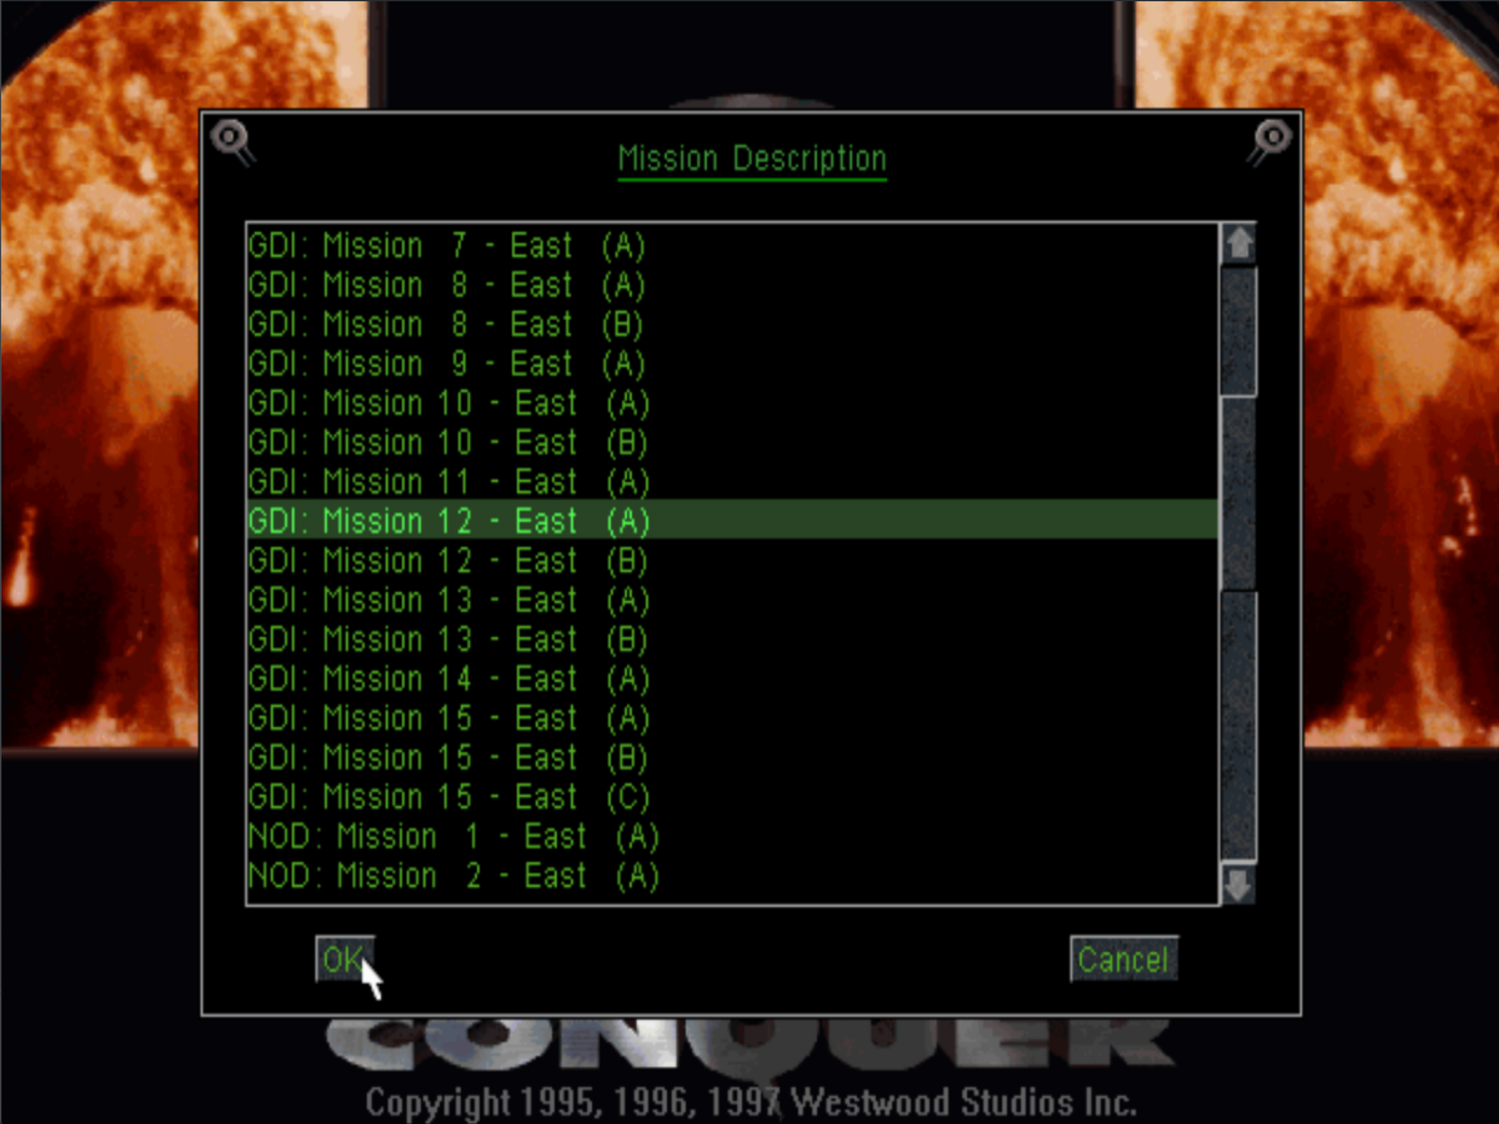
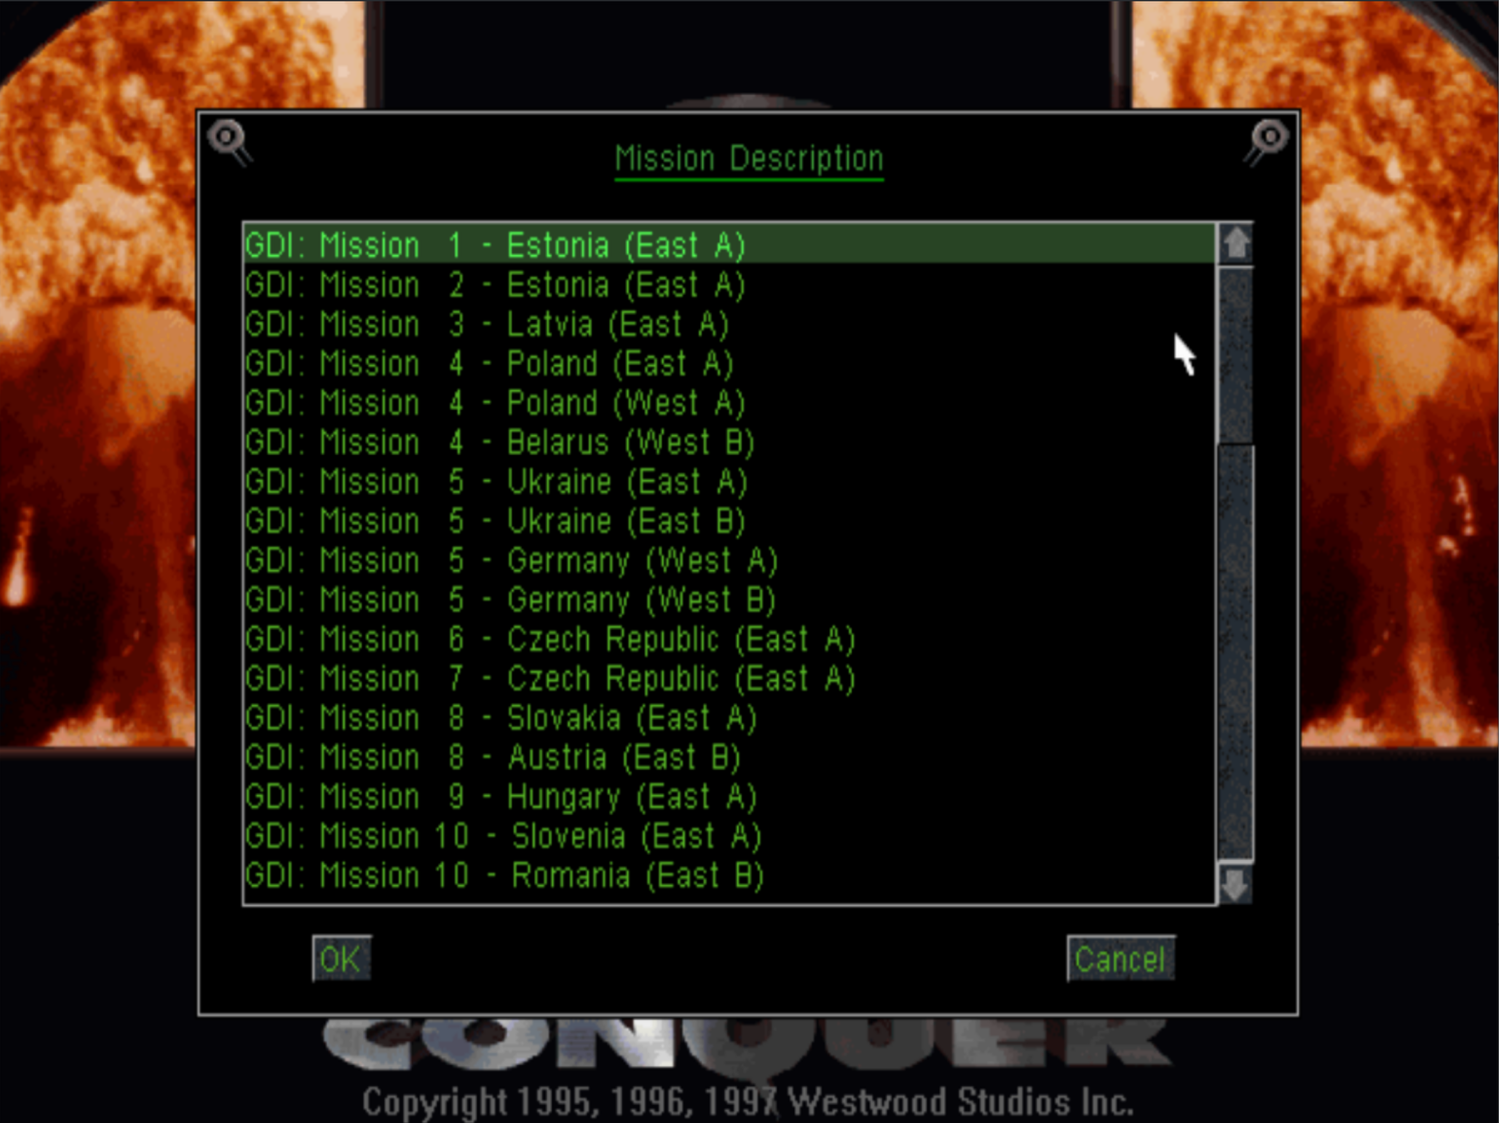
feat(td): Mission select campaign tabs and fix issues with funpark missions messing up state

diff --git a/tiberiandawn/missionselect.cpp b/tiberiandawn/missionselect.cpp
@@ -2,15 +2,24 @@
 #include "common/framelimit.h"
 #include "common/ini.h"
 
-#include <redalert/externs.h>
-
-#ifdef NEWMENU
 
 class EListClass : public ListClass
 {
 public:
     EListClass(int id, int x, int y, int w, int h, TextPrintType flags, void const* up, void const* down)
         : ListClass(id, x, y, w, h, flags, up, down){};
+
+    void Clear() {
+        for (int i = 0; i < List.Count(); ++i) {
+            if (List[i] != nullptr) {
+                delete[] (char*)List[i];
+            }
+        }
+        List.Clear();
+        if (IsScrollActive && List.Count() <= LineCount) {
+            Remove_Scroll_Bar();
+        }
+    }
 
 protected:
     void Draw_Entry(int index, int x, int y, int width, int selected) override
@@ -114,9 +123,9 @@ static std::string Build_Mission_Description(
  * Country names are retrieved using the reference tables from map selection logic, if a scenario name is present in
  * the INI file it overrides country name.
  */
-static void Populate_Mission_List(EListClass& mission_list, std::vector<MissionVariables>& mission_metadata)
+static void Populate_Mission_List(EListClass& mission_list, std::vector<MissionVariables>& mission_metadata, const std::vector<ScenarioPlayerType>& players)
 {
-    for (const auto& player : { SCEN_PLAYER_GDI, SCEN_PLAYER_NOD, SCEN_PLAYER_JP }) {
+    for (const auto& player : players) {
         /*
         ** Load mix files for GDI/NOD so we can enumerate scenario INI files.
         */
@@ -213,10 +222,16 @@ bool Mission_Select_Dialog(void)
     TextButtonClass ok(
         200, TXT_OK, TPF_6PT_GRAD | TPF_NOSHADOW, option_x + 25 * factor, option_y + option_height - 15 * factor);
     TextButtonClass cancel(201,
-                           TXT_CANCEL,
-                           TPF_6PT_GRAD | TPF_NOSHADOW,
-                           option_x + option_width - 50 * factor,
-                           option_y + option_height - 15 * factor);
+                            TXT_CANCEL,
+                            TPF_6PT_GRAD | TPF_NOSHADOW,
+                            option_x + option_width - 50 * factor,
+                            option_y + option_height - 15 * factor);
+
+    TextButtonClass btn_all(203, "All", TPF_6PT_GRAD | TPF_NOSHADOW, option_x + 10 * factor, option_y + 12 * factor, 50 * factor, 8 * factor);
+    TextButtonClass btn_gdi(204, "GDI", TPF_6PT_GRAD | TPF_NOSHADOW, option_x + 60 * factor, option_y + 12 * factor, 50 * factor, 8 * factor);
+    TextButtonClass btn_nod(205, "NOD", TPF_6PT_GRAD | TPF_NOSHADOW, option_x + 110 * factor, option_y + 12 * factor, 50 * factor, 8 * factor);
+    TextButtonClass btn_fun(206, "Funpark", TPF_6PT_GRAD | TPF_NOSHADOW, option_x + 160 * factor, option_y + 12 * factor, 60 * factor, 8 * factor);
+
     EListClass list(202,
                     option_x + 10 * factor,
                     option_y + 20 * factor,
@@ -225,13 +240,19 @@ bool Mission_Select_Dialog(void)
                     TPF_6PT_GRAD | TPF_NOSHADOW,
                     up_button,
                     down_button);
-    std::vector<MissionVariables> missions;
 
-    Populate_Mission_List(list, missions);
+    std::vector<MissionVariables> missions;
+    std::vector<ScenarioPlayerType> current_filter = { SCEN_PLAYER_GDI, SCEN_PLAYER_NOD, SCEN_PLAYER_JP };
+
+    Populate_Mission_List(list, missions, current_filter);
 
     buttons = &ok;
     cancel.Add(*buttons);
     list.Add(*buttons);
+    btn_all.Add(*buttons);
+    btn_gdi.Add(*buttons);
+    btn_nod.Add(*buttons);
+    btn_fun.Add(*buttons);
 
     Set_Logic_Page(SeenBuff);
     bool recalc = true;
@@ -280,6 +301,8 @@ bool Mission_Select_Dialog(void)
                 Whom = whom;
                 ScenDir = dir;
                 ScenVar = var;
+                Special.IsJurassic = player == SCEN_PLAYER_JP;
+                AreThingiesEnabled = player == SCEN_PLAYER_JP;
 
                 okval = true;
                 process = false;
@@ -293,9 +316,44 @@ bool Mission_Select_Dialog(void)
             Whom = HOUSE_GOOD;
             ScenDir = SCEN_DIR_EAST;
             ScenVar = SCEN_VAR_NONE;
+            Special.IsJurassic = false;
+            AreThingiesEnabled = false;
 
             process = false;
             okval = false;
+            break;
+
+        case 203 | KN_BUTTON:
+            current_filter = { SCEN_PLAYER_GDI, SCEN_PLAYER_NOD, SCEN_PLAYER_JP };
+            list.Clear();
+            missions.clear();
+            Populate_Mission_List(list, missions, current_filter);
+            list.Set_View_Index(0);
+            display = true;
+            break;
+        case 204 | KN_BUTTON:
+            current_filter = { SCEN_PLAYER_GDI };
+            list.Clear();
+            missions.clear();
+            Populate_Mission_List(list, missions, current_filter);
+            list.Set_View_Index(0);
+            display = true;
+            break;
+        case 205 | KN_BUTTON:
+            current_filter = { SCEN_PLAYER_NOD };
+            list.Clear();
+            missions.clear();
+            Populate_Mission_List(list, missions, current_filter);
+            list.Set_View_Index(0);
+            display = true;
+            break;
+        case 206 | KN_BUTTON:
+            current_filter = { SCEN_PLAYER_JP };
+            list.Clear();
+            missions.clear();
+            Populate_Mission_List(list, missions, current_filter);
+            list.Set_View_Index(0);
+            display = true;
             break;
 
         default:
@@ -323,5 +381,3 @@ bool Mission_Select_Dialog(void)
 
     return (okval);
 }
-
-#endif

diff --git a/tiberiandawn/radar.cpp b/tiberiandawn/radar.cpp
@@ -340,7 +340,21 @@ void RadarClass::Draw_It(bool forced)
         return;
 
     static HousesType _house = HOUSE_NONE;
-    if (PlayerPtr->ActLike != _house) {
+    static auto _playing_jurassic_campaign = false;
+
+    // check if we have entered/left funpark campaign
+    auto jurassic_flag_change = false;
+
+    if (Special.IsJurassic && !_playing_jurassic_campaign) {
+        _playing_jurassic_campaign = true;
+        jurassic_flag_change = true;
+    } else if (!Special.IsJurassic && _playing_jurassic_campaign) {
+        _playing_jurassic_campaign = false;
+        jurassic_flag_change = true;
+    }
+
+    // draw if the player's house has changed OR we have entered/left funpark campaign
+    if (PlayerPtr->ActLike != _house || jurassic_flag_change) {
         char name[_MAX_NAME + _MAX_EXT];
 
         if (Special.IsJurassic && AreThingiesEnabled) {

diff --git a/tiberiandawn/scenarioini.cpp b/tiberiandawn/scenarioini.cpp
@@ -400,6 +400,8 @@ bool Read_Scenario_Ini(char* root, SpecialClass special_options, bool allow_supe
 
         if (Special.IsJurassic) {
             PlayerPtr->ActLike = Whom;
+        } else {
+            PlayerPtr->ActLike = PlayerPtr->Class->House;
         }
 
         PlayerPtr->Assign_Handicap(Scen.Difficulty);
@@ -814,6 +816,8 @@ bool Read_Scenario_Ini_File(char* scenario_file_name, char* bin_file_name, const
 
         if (Special.IsJurassic) {
             PlayerPtr->ActLike = Whom;
+        } else {
+            PlayerPtr->ActLike = PlayerPtr->Class->House;
         }
 
         if (Special.IsEasy) {

diff --git a/tiberiandawn/intro.cpp b/tiberiandawn/intro.cpp
@@ -108,6 +108,10 @@ void Choose_Side(void)
     int gdi_start_palette;
     int scale_factor = Get_Resolution_Factor() + 1;
 
+    // reset funpark flags
+    Special.IsJurassic = false;
+    AreThingiesEnabled = false;
+
     TextPrintBuffer = new GraphicBufferClass(SeenBuff.Get_Width(), SeenBuff.Get_Height(), (void*)NULL);
     TextPrintBuffer->Clear();
     BlitList.Clear();

diff --git a/tiberiandawn/list.cpp b/tiberiandawn/list.cpp
@@ -344,7 +344,7 @@ int ListClass::Draw_Me(int forced)
             for (int index = 0; index < LineCount; index++) {
                 int line = CurrentTopIndex + index;
 
-                if (List.Count() > line) {
+                if (line >= 0 && List.Count() > line) {
 
                     /*
                     **	Prints the text and handles right edge clipping and tabs.
